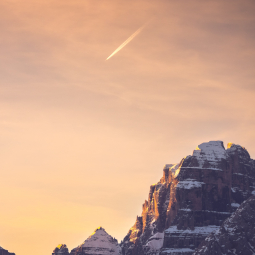
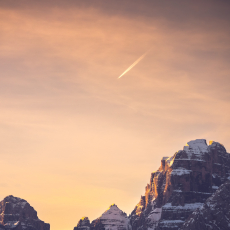
updated project thumbnails

diff --git a/_sass/_layout.scss b/_sass/_layout.scss
@@ -196,13 +196,13 @@ box-sizing: border-box;
 padding: 10px;
 }
 .thumbnail{
-width: 255px;
-height: 255px;
+width: 100%;
+height: 230px;
 overflow: hidden;
 }
 .thumbnail img{
-width: 250px;
-height: 250px;
+width: 500px;
+height: auto;
 position: relative;
 left: -25%;
 top: -5%;
@@ -211,7 +211,7 @@ top: -5%;
 float: left;
 position: relative;
 width: 100%;
-height: 250px;
+height: 230px;
 }
 .thumbnail a span {
 display: none;
